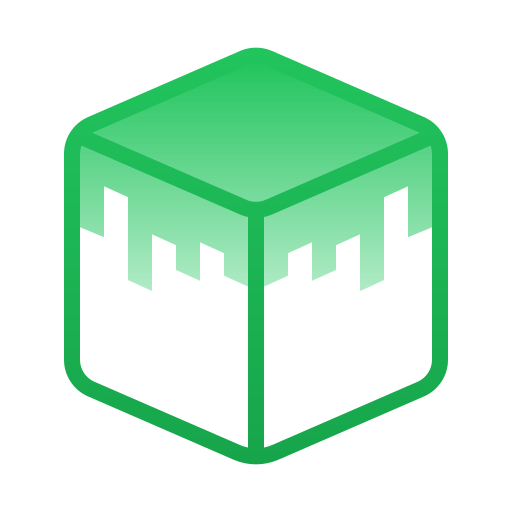
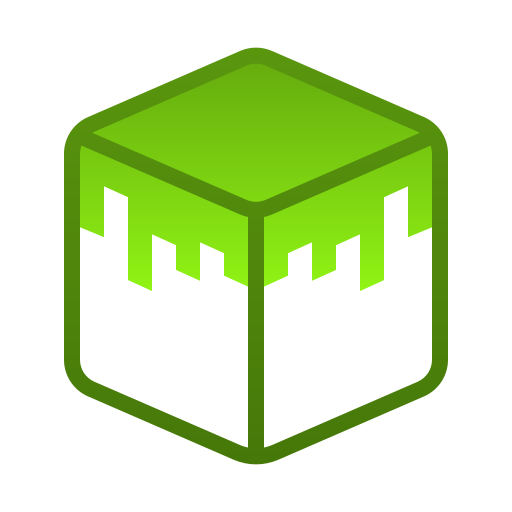
added dark-mode

Changed region(s): [[0.125, 0.0938, 0.875, 0.9062]]

diff --git a/components/header.tsx b/components/header.tsx
@@ -2,8 +2,7 @@ import { Popover, Transition } from '@headlessui/react'
 import classNames from "classnames";
 import {Fragment, useEffect, useState} from "react";
 import Container from "./container";
-import {RxDiscordLogo} from "react-icons/rx";
-import {BiCopy} from "react-icons/bi";
+import {FaDiscord} from "react-icons/fa";
 
 const server = [
     {
@@ -61,7 +60,7 @@ const Header = () => {
     useEffect(() => {
         const listener = () => {
             console.log(window.scrollY);
-            if (window.scrollY > 750) {
+            if (window.scrollY > 20) {
                 setAnimateHeader(true);
             } else setAnimateHeader(false);
         };
@@ -72,7 +71,7 @@ const Header = () => {
     }, []);
 
   return (
-      <Popover className={`fixed w-full bg-white z-40 trasition ease-in-out duration-500 ${animateHeader && "backdrop-filter backdrop-blur-lg bg-white/20"}`}>
+      <Popover className="fixed w-full bg-white/60 dark:bg-midnight/60 backdrop-filter backdrop-blur-lg z-40">
           <Container>
               <div className="mx-auto">
                   <div className={`flex items-center justify-between py-5 md:justify-start md:space-x-10 cartoon trasition ease-in-out duration-500`}>
@@ -86,11 +85,11 @@ const Header = () => {
                               />
                           </a>
                           <div className="ml-4 flex flex-col justify-around leading-5 font-bold">
-                              <button className="inline-block px-1 pt-0.5 bg-green-600 text-white font-medium text-sm leading-tight uppercase rounded shadow-md hover:bg-green-700 hover:shadow-lg focus:bg-green-700 focus:shadow-lg focus:outline-none focus:ring-0 active:bg-green-800 active:shadow-lg transition duration-150 ease-in-out">
+                              <button className="inline-block px-1 pt-0.5 bg-gradient-to-r from-cn-d to-cn text-white font-medium text-sm leading-tight uppercase rounded shadow-md hover:bg-green-700 hover:shadow-lg focus:bg-green-700 focus:shadow-lg focus:outline-none focus:ring-0 active:bg-green-800 active:shadow-lg transition duration-150 ease-in-out">
                                   cube-nation.de
                                   {/*<BiCopy className="inline-block h-3 ml-1 mb-0.5"/>*/}
                               </button>
-                              <span className="text-black">11 / 50 Online</span>
+                              <span>11 / 50 Online</span>
                           </div>
                       </div>
                       <div className="-my-2 -mr-2 md:hidden">
@@ -104,7 +103,7 @@ const Header = () => {
                           <Popover className="relative">
                               {({ open }) => (
                                   <>
-                                      <Popover.Button className="group inline-flex items-center rounded-md text-lg font-bold text-black hover:underline decoration-4 underline-offset-8 decoration-green-500 focus:outline-none">
+                                      <Popover.Button className="group inline-flex items-center rounded-md text-lg font-bold hover:underline decoration-4 underline-offset-8 decoration-green-500 focus:outline-none">
                                           <span>Unsere Server</span>
                                       </Popover.Button>
 
@@ -152,17 +151,17 @@ const Header = () => {
                               )}
                           </Popover>
 
-                          <a href="#" className="text-lg font-bold text-black hover:underline decoration-4 underline-offset-8 decoration-green-500">
+                          <a href="#" className="text-lg font-bold hover:underline decoration-4 underline-offset-8 decoration-green-500">
                               Wiki
                           </a>
-                          <a href="#" className="text-lg font-bold text-black hover:underline decoration-4 underline-offset-8 decoration-green-500">
+                          <a href="#" className="text-lg font-bold hover:underline decoration-4 underline-offset-8 decoration-green-500">
                               Regeln
                           </a>
 
                           <Popover className="relative">
                               {({ open }) => (
                                   <>
-                                      <Popover.Button className="group inline-flex items-center rounded-md text-lg font-bold text-black hover:underline decoration-4 underline-offset-8 decoration-green-500 focus:outline-none">
+                                      <Popover.Button className="group inline-flex items-center rounded-md text-lg font-bold hover:underline decoration-4 underline-offset-8 decoration-green-500 focus:outline-none">
                                           <span>FAQ</span>
                                       </Popover.Button>
 
@@ -219,9 +218,9 @@ const Header = () => {
                           </Popover>
                       </Popover.Group>
                       <div className="hidden items-center justify-end md:flex md:flex-1 lg:w-0">
-                          <span className="hidden ld:inline leading-4 mr-4 text-right">Trete unserem <br/>Discord bei!</span>
-                          <button className="inline-block p-1 bg-indigo-500 text-white font-medium text-sm leading-tight uppercase rounded shadow-md hover:bg-indigo-600 hover:shadow-lg focus:bg-indigo-760 focus:shadow-lg focus:outline-none focus:ring-0 active:bg-indigo-700 active:shadow-lg transition duration-150 ease-in-out">
-                              <RxDiscordLogo className="text-3xl text-white"/>
+                          <span className="hidden md:inline leading-4 mr-4 text-right">Tritt unserem <br/>Discord bei!</span>
+                          <button className="inline-block p-1 bg-black dark:bg-white font-medium text-sm leading-tight uppercase rounded shadow-md hover:bg-indigo-600 hover:shadow-lg focus:bg-indigo-760 focus:shadow-lg focus:outline-none focus:ring-0 active:bg-indigo-700 active:shadow-lg transition duration-150 ease-in-out">
+                              <FaDiscord className="text-3xl text-white dark:text-midnight"/>
                           </button>
                       </div>
                   </div>

diff --git a/pages/index.tsx b/pages/index.tsx
@@ -10,6 +10,7 @@ import Post from '../interfaces/post'
 import Header from "../components/header";
 import Banner from "../components/banner";
 import Image from "next/image";
+import {BiCopy} from "react-icons/bi";
 
 type Props = {
   allPosts: Post[]
@@ -64,14 +65,14 @@ export default function Index({ allPosts }: Props) {
         <Container>
           <div className="hidden lg:flex relative justify-between w-full md:mb-16 -top-10">
             {servers.map(server => (
-            <div className="flex-1 flex p-6 rounded-lg bg-white/60 backdrop-blur-xl drop-shadow-md text-black h-min mx-8">
+            <div className="flex-1 flex p-6 rounded-lg bg-white/60 dark:bg-midnight-700/60 backdrop-blur-lg drop-shadow-md h-min mx-5">
               <img src="/assets/block-uni.png" alt="Block" className="w-20 h-20"/>
               <div className="ml-2">
                 <h5 className="text-xl leading-tight font-medium">{server.servername}</h5>
                 <h5 className="text-sm leading-tight font-medium mb-2.5">Version {server.version}</h5>
-                <button className="inline-block px-1 py-0.5 bg-gradient-to-r from-green-500 to-green-600 text-white font-medium text-sm leading-tight rounded shadow-md hover:bg-green-700 hover:shadow-lg focus:bg-green-700 focus:shadow-lg focus:outline-none focus:ring-0 active:bg-green-800 active:shadow-lg transition duration-150 ease-in-out">
+                <button className="inline-block px-1 py-0.5 bg-gradient-to-r from-cn-d to-cn text-white dark:text-black font-medium text-sm leading-tight rounded shadow-md hover:bg-green-700 hover:shadow-lg focus:bg-green-700 focus:shadow-lg focus:outline-none focus:ring-0 active:bg-green-800 active:shadow-lg transition duration-150 ease-in-out">
                   {server.address}
-                  {/*<BiCopy className="inline-block h-3 ml-1 mb-0.5"/>*/}
+                  <BiCopy className="inline-block h-3 ml-1 mb-0.5"/>
                 </button>
               </div>
             </div>
@@ -84,7 +85,7 @@ export default function Index({ allPosts }: Props) {
             {morePosts.length > 0 && <MoreStories posts={morePosts} />}
             </div>
 
-            <div className="hidden lg:block p-6 rounded-lg bg-gradient-to-r from-green-500 to-green-600 text-white drop-shadow-md max-w-sm h-min">
+            <div className="hidden lg:block p-6 rounded-lg bg-gradient-to-r from-cn-d to-cn text-white dark:text-black drop-shadow-md max-w-sm h-min">
               <h5 className="text-xl leading-tight font-medium mb-2">Top-Voter der Woche</h5>
               <div className="flex justify-center">
                 <ul className="rounded-lg w-96">
@@ -97,7 +98,7 @@ export default function Index({ allPosts }: Props) {
                     }
                     return 0
                   }).map((e, i) => (
-                      <li className={`px-6 py-2 w-full ${i < topVoter.length-1 && "border-b border-gray-200"}`}>
+                      <li className={`px-6 py-2 w-full ${i < topVoter.length-1 && "border-b border-white dark:border-black"}`}>
                         {e.username}: <span className="float-right">{e.votecount}</span>
                       </li>
                   ))}

diff --git a/components/banner.tsx b/components/banner.tsx
@@ -8,7 +8,7 @@ const HeroPost = () => {
                 <div className="md:pt-32 pt-28 pb-10 bg-black bg-opacity-20 backdrop-blur-sm">
                     <Container>
                         <div className="md:my-24 2xl:mr-96 text-white">
-                            <h1 className="text-4xl md:text-7xl font-bold tracking-tighter leading-tight md:pr-8">Willkommen auf <span className="text-transparent bg-clip-text bg-gradient-to-r from-green-500 to-green-600">Cube-Nation</span>!</h1>
+                            <h1 className="text-4xl md:text-7xl font-bold tracking-tighter leading-tight md:pr-8">Willkommen auf <span className="text-transparent bg-clip-text bg-gradient-to-r from-cn to-cn-l">Cube-Nation</span>!</h1>
                             <h2 className="text-2xl mt-2 md:mt-0 md:text-4xl font-bold tracking-tighter leading-tight md:pr-8">Dem Minecraft Server mit dem Wohlfühleffekt.</h2>
                             <p className="mt-6 md:mt-12">
                                 Cube-Nation bietet dir mit seinem gut durchdachten und stetig weiterentwickelten Konzept ein Minecraft-Spielerlebnis, das du bald nicht mehr vermissen möchtest. Gemeinsam mit den Spielern haben wir seit 2011 einen der freundlichsten Minecraft-Server im deutschsprachigen Raum entwickelt. Zur Community gehört nicht nur das kompetente Server-Team, sondern selbstverständlich auch jeder einzelne Cube-Nation-Spieler!
@@ -20,7 +20,7 @@ const HeroPost = () => {
                                         type="button"
                                         data-mdb-ripple="true"
                                         data-mdb-ripple-color="light"
-                                        className="inline-block mr-2 px-7 py-3 bg-green-600 text-white font-medium text-sm leading-tight uppercase rounded shadow-md hover:bg-green-700 hover:shadow-lg focus:bg-green-700 focus:shadow-lg focus:outline-none focus:ring-0 active:bg-green-800 active:shadow-lg transition duration-150 ease-in-out"
+                                        className="inline-block mr-2 px-7 py-3 bg-cn text-black font-medium text-sm leading-tight uppercase rounded shadow-md hover:bg-cn-d hover:shadow-lg focus:bg-cn-d focus:shadow-lg focus:outline-none focus:ring-0 active:bg-cn-d active:shadow-lg transition duration-150 ease-in-out"
                                     > Neu hier?
                                     </button>
                                     <button

diff --git a/components/footer.tsx b/components/footer.tsx
@@ -1,9 +1,10 @@
 import Container from './container'
 import { EXAMPLE_PATH } from '../lib/constants'
+import {AiFillHeart} from "react-icons/ai";
 
 const Footer = () => {
   return (
-      <footer className="text-center bg-slate-900 text-white">
+      <footer className="text-center bg-slate-900 text-white dark:bg-midnight-700">
         <Container>
           <div className="flex justify-center p-6">
             <a href="#!" type="button"
@@ -79,8 +80,12 @@ const Footer = () => {
             </a>
           </div>
 
-          <div className="text-center p-4 bg-slate-900">
-            © 2022 Copyright <a className="text-whitehite" href="https://cube-nation.de/">Cube-Nation</a>. We are not affiliated with Mojang AB.
+          <div className="text-center p-4">
+            Gecraftet mit <AiFillHeart className="inline ml-0.5 mb-1 text-red-500"/>.
+          </div>
+
+          <div className="text-center pb-4 text-slate-700 dark:text-neutral-700 text-sm">
+            © 2022 Copyright <a href="https://cube-nation.de/">Cube-Nation</a>. We are not affiliated with Mojang AB.
           </div>
         </Container>
       </footer>

diff --git a/tailwind.config.js b/tailwind.config.js
@@ -4,32 +4,16 @@ module.exports = {
   theme: {
     extend: {
       colors: {
-        'accent-1': '#66AC0E',
-        'accent-2': '#4D810B',
-        'accent-7': '#91F514',
-        success: '#0070f3',
-        cyan: '#79FFE1',
-      },
-      spacing: {
-        28: '7rem',
-      },
-      letterSpacing: {
-        tighter: '-.04em',
-      },
-      lineHeight: {
-        tight: 1.2,
-      },
-      fontSize: {
-        '5xl': '2.5rem',
-        '6xl': '2.75rem',
-        '7xl': '4.5rem',
-        '8xl': '6.25rem',
-      },
-      boxShadow: {
-        sm: '0 5px 10px rgba(0, 0, 0, 0.12)',
-        md: '0 8px 30px rgba(0, 0, 0, 0.12)',
+        'midnight': '#16181c',
+        'midnight-600': '#111316',
+        'midnight-700': '#0D0E10',
+        'midnight-900': '#060708',
+        'cn-d': '#5B9A0C',
+        'cn': '#66ac0e',
+        'cn-l': '#91f514',
       },
     },
   },
   plugins: [],
+  darkMode: ['media'],
 }

diff --git a/pages/_document.tsx b/pages/_document.tsx
@@ -4,7 +4,7 @@ export default function Document() {
   return (
     <Html lang="en">
       <Head />
-      <body>
+      <body className="dark:bg-midnight dark:text-white">
         <Main />
         <NextScript />
       </body>
